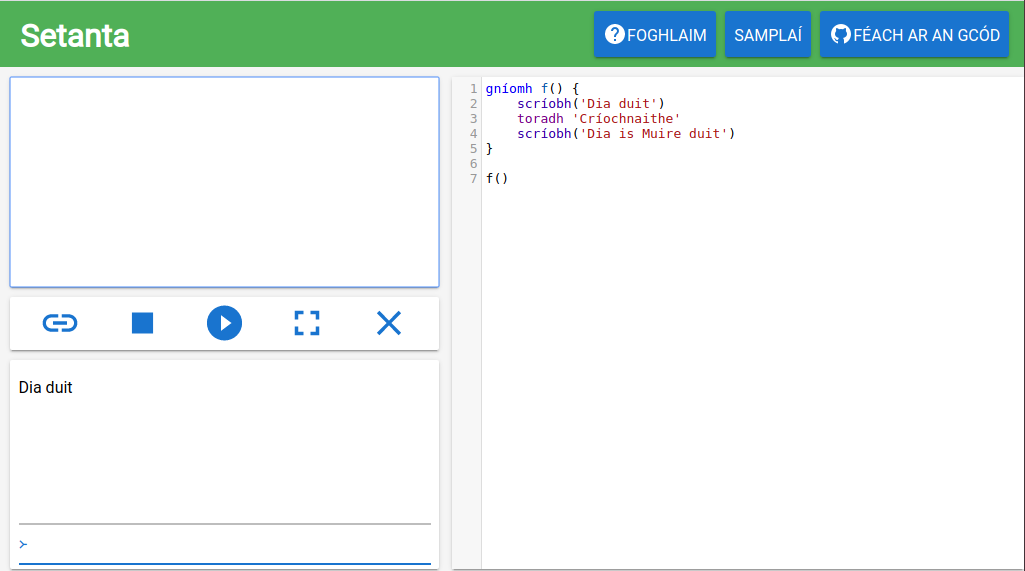
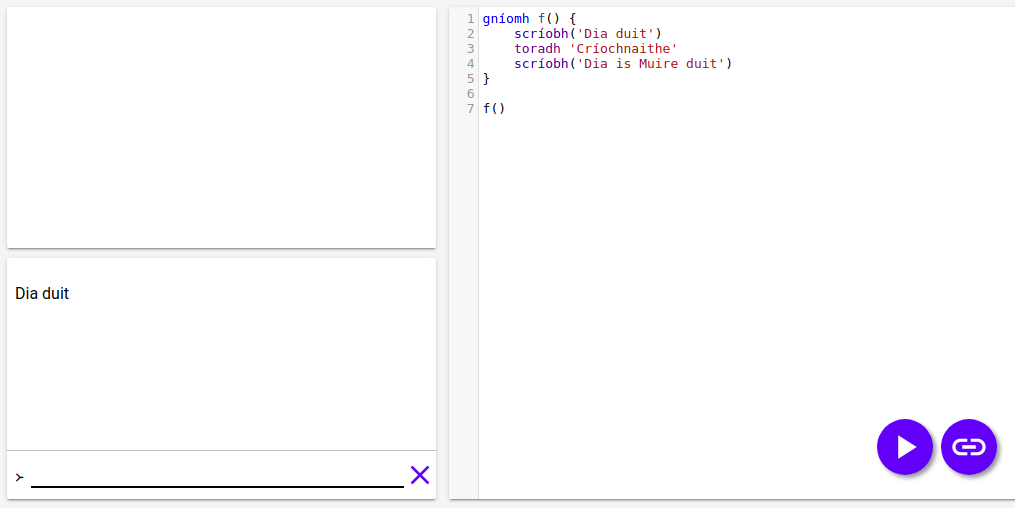
Docs: Update screenshots to latest design

diff --git a/docs/_gaeilge/02-try-setanta.md b/docs/_gaeilge/02-try-setanta.md
@@ -8,7 +8,11 @@ toc: true
 
 Nuair a théann tú go [try-setanta.ie](https://try-setanta.ie), feicfidh tú rud cosúil le seo.
 
-![An chéad suíomh](/assets/images/teagaisc/teagaisc01.png)
+![An chéad leathanach](/assets/images/teagaisc/splash.png)
+
+Cliceáil ar "Oscail an eagarthóir" chun an príomhleathanach a oscailt.
+
+![An eagarthóir](/assets/images/teagaisc/teagaisc01.png)
 
 Tá trí phíosa ar an suíomh. Is iad an stáitse, an eagarthóir, agus an consól.
 

diff --git a/docs/_english/02-try-setanta.md b/docs/_english/02-try-setanta.md
@@ -8,6 +8,10 @@ toc: true
 
 When you go to [try-setanta.ie](https://try-setanta.ie), you will see something like this.
 
+![An chéad leathanach](/assets/images/teagaisc/splash.png)
+
+Click on "Open the editor" to open the main page:
+
 ![The first site](/assets/images/teagaisc/teagaisc01.png)
 
 There are three pieces on the site. They are the "stáitse" (stage), the editor and the console.
